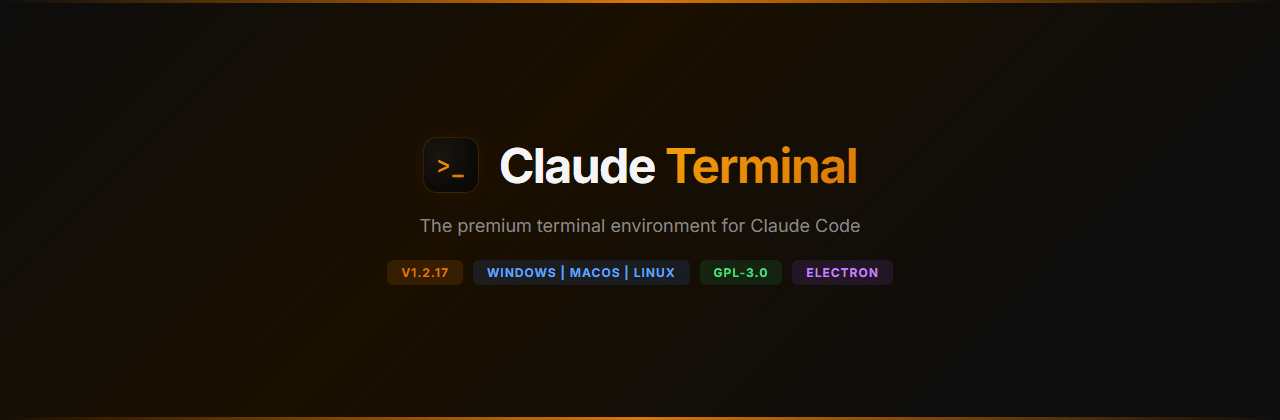
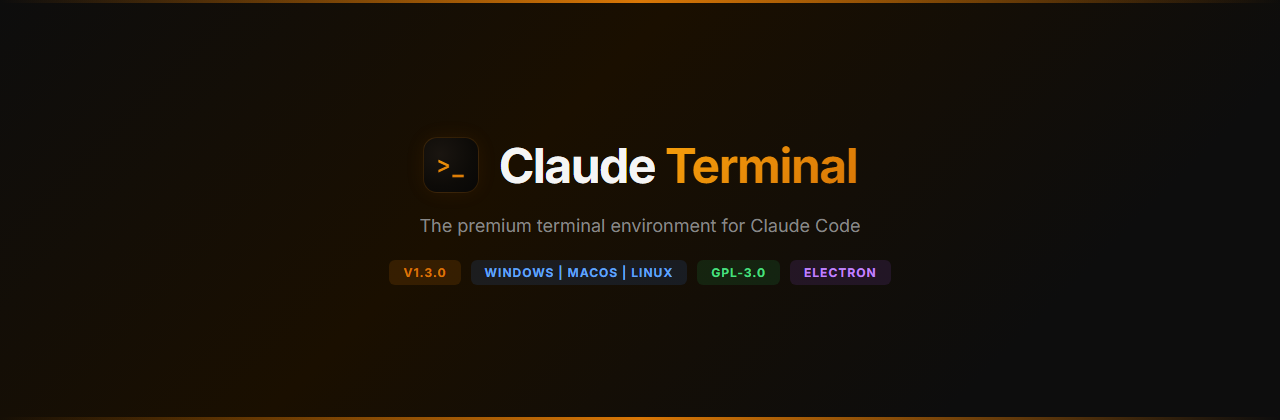
chore: bump version to 1.3.0

Changed region(s): [[0.3125, 0.619, 0.5938, 0.681], [0.625, 0.619, 0.6875, 0.681]]

diff --git a/README.md b/README.md
@@ -4,7 +4,7 @@
 
 <p align="center">
   <img src="https://img.shields.io/github/downloads/Sterll/claude-terminal/total?color=d97706&label=downloads" alt="Downloads" />
-  <img src="https://img.shields.io/badge/version-1.2.18-orange" alt="Version" />
+  <img src="https://img.shields.io/badge/version-1.3.0-orange" alt="Version" />
   <img src="https://img.shields.io/badge/platform-Windows%20|%20macOS%20|%20Linux-blue" alt="Platform" />
   <img src="https://img.shields.io/badge/license-GPL--3.0-green" alt="License" />
   <img src="https://img.shields.io/badge/electron-28-purple" alt="Electron" />
@@ -169,7 +169,10 @@ npm install
 - **File rewind**: revert chat context to an earlier file state via SDK checkpointing — useful for undoing unwanted edits mid-session
 - **Cost tracking**: model name, token count, and USD cost in the status bar
 - **1M context window**: extended context for larger codebases (API mode only)
-- **Dynamic model and effort switching**: change model (Sonnet, Opus 4.8, Haiku) and effort level (low, medium, high, xhigh) mid-conversation without starting a new session
+- **Dynamic model and effort switching**: the model picker is built live from the Claude CLI's own catalog, so newly released models (e.g. Fable 5.1) show up automatically; switch model and effort level (low, medium, high, xhigh) mid-conversation without starting a new session
+- **Background tasks drawer**: a collapsible drawer scoped to the current session shows work Claude is running in the background, so you can keep chatting while it finishes
+- **Artifacts library & Documents tab**: files and snippets Claude generates are saved to a reusable artifact library and also surface in a per-conversation Documents tab for quick access
+- **Conversation search**: press Ctrl+F to search across the current conversation transcript
 - **Pin conversations**: keep important sessions at the top of the list
 - **Fork sessions**: branch from any message to explore alternative paths; Claude Terminal warns instead of discarding if a queued turn would be lost
 - **Follow-up suggestions**: context-aware suggestion chips appear after Claude responds to help guide the conversation
@@ -189,6 +192,24 @@ npm install
 - Filter terminals by project
 - Adaptive ready detection with spinner status
 - Captured terminal output, so the terminal read tools and MCP tools can actually return what ran
+
+### Navigation
+- Choose how you browse projects: a project tab bar across the top, or a classic projects column on the side
+- Asked once in the first-launch setup wizard, and switchable anytime from Settings
+
+### Files
+- A dedicated Files screen shows every file touched in a session, with per-session diffs rendered GitHub-style
+- Quickly review what Claude changed without leaving the chat context
+
+### Accounts
+- Bind a separate Claude account to each project, with its own isolated credential store
+- Switch projects without switching accounts by hand, and without one project's login affecting another's
+
+### Voice
+- Dictate messages to the chat input by microphone (Groq transcription)
+- Verbatim dictation mode with focused-tab routing so your words land in the right conversation
+- Hands-free session profile for fully voice-driven sessions
+- Speaks project names the way you'd say them, so @mentions by voice resolve correctly
 
 ### Project Management
 - Organize projects in nested folders with drag-and-drop
@@ -302,6 +323,9 @@ npm install
 - Browse session history with timestamps and metadata
 - Pin sessions to the top and rename them inline from the resume dialog
 - Modernized session resume modal with search and pinned sessions
+- Sessions show their real conversation title instead of a timestamp, and are searchable by id
+- **Move a session to another project**: relocate a conversation without losing its history
+- Custom tab names are locked and no longer get silently overwritten by auto-naming
 
 ### Memory
 - Edit global, settings and project-specific CLAUDE.md files
@@ -474,6 +498,7 @@ npm run test:watch
 | `Ctrl+,` | Settings |
 | `Ctrl+←` / `Ctrl+→` | Switch terminal (left/right) |
 | `Ctrl+↑` / `Ctrl+↓` | Switch project (up/down) |
+| `Ctrl+F` | Search the current conversation transcript |
 | `Escape` | Close dialogs |
 
 Shortcuts are customizable in Settings.
